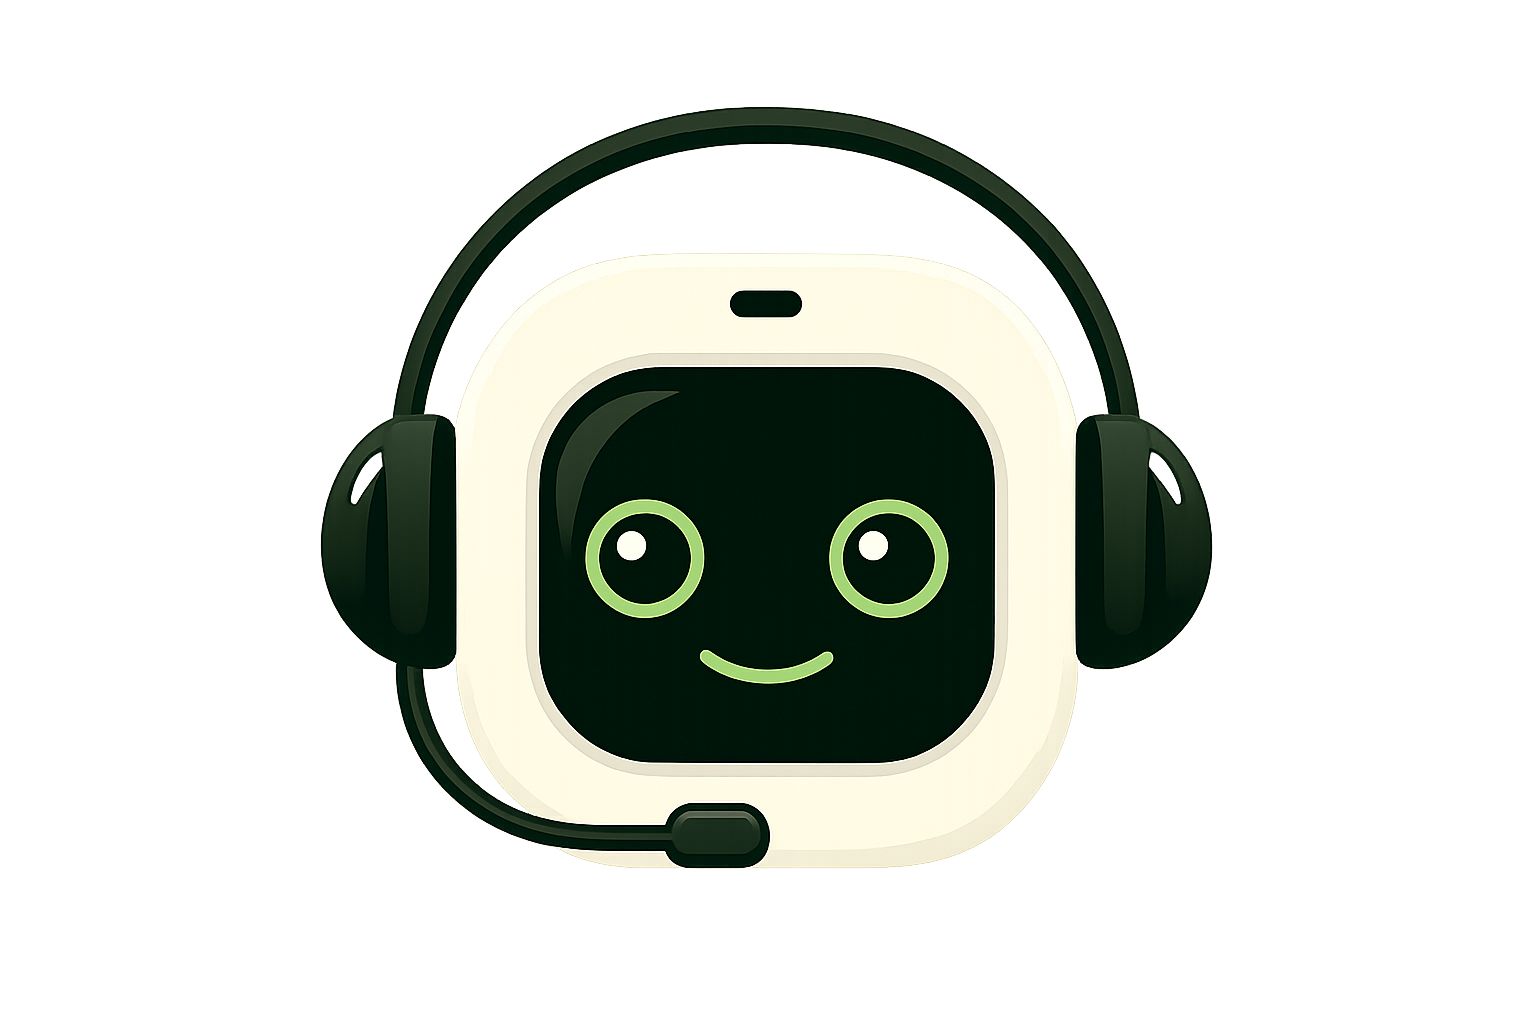
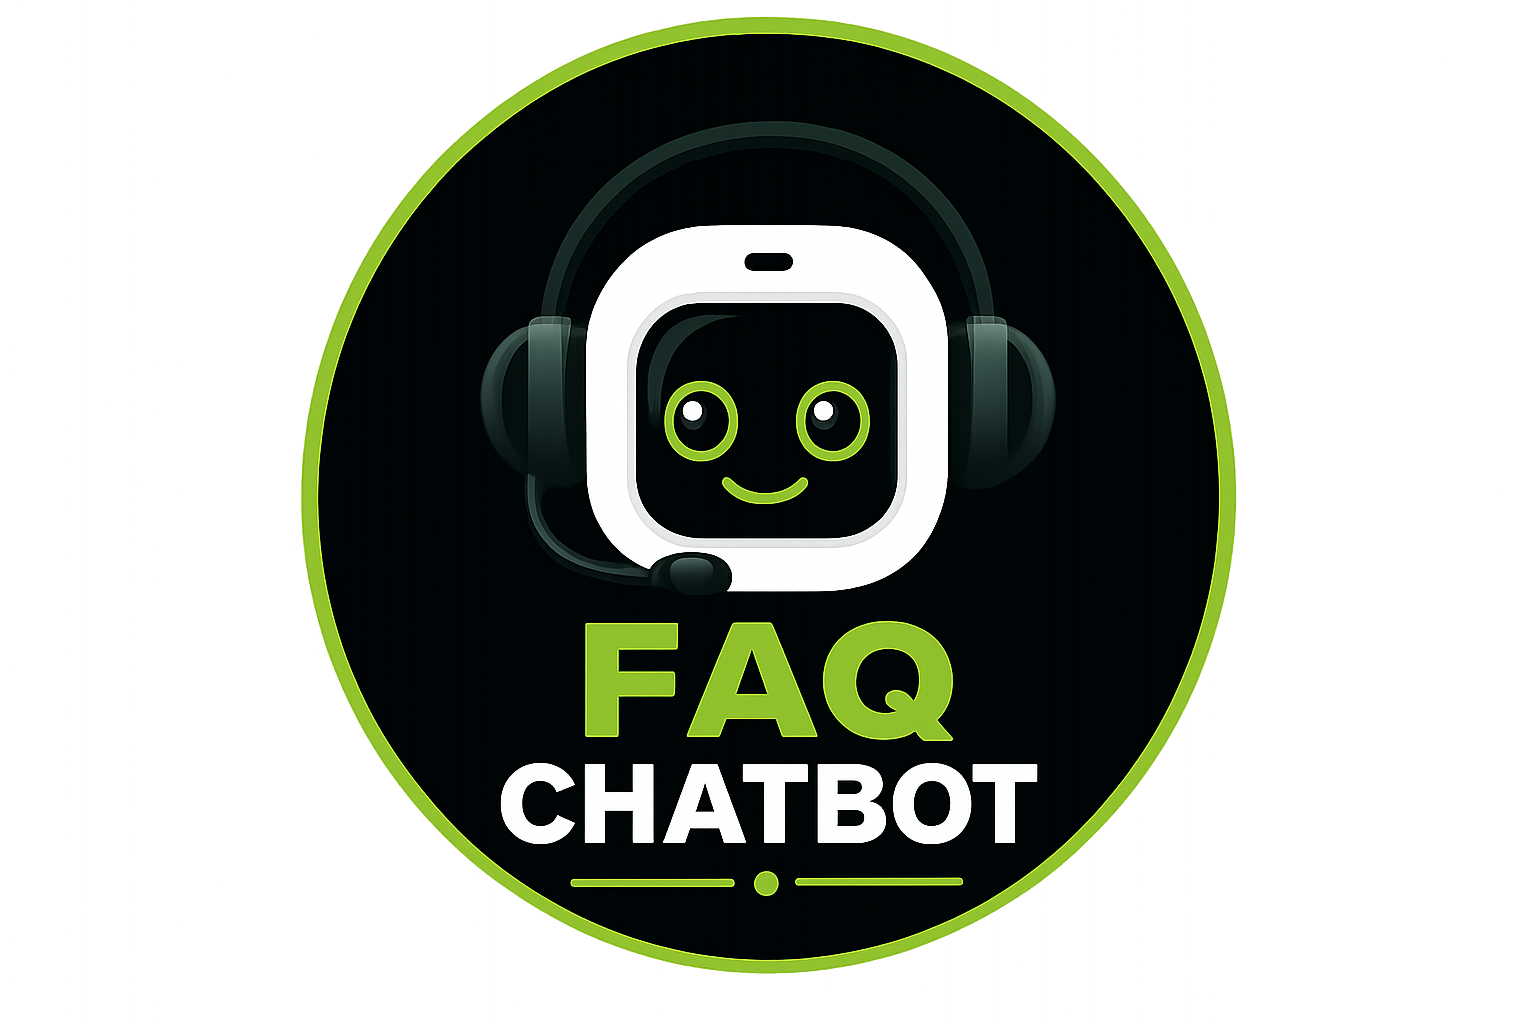
change chat boat image

diff --git a/vite.config.js b/vite.config.js
@@ -3,61 +3,11 @@ import https from "node:https";
 import os from "node:os";
 import { fileURLToPath } from "node:url";
 import { execFile } from "node:child_process";
-import { copyFileSync, mkdirSync, readFileSync } from "node:fs";
 import { readFile, unlink, writeFile } from "node:fs/promises";
 import { defineConfig, loadEnv } from "vite";
 import react from "@vitejs/plugin-react";
 
 const __dirname = path.dirname(fileURLToPath(import.meta.url));
-const CHATBOT_FAVICON_PATH = path.join(__dirname, "public/chatbot/favicon.svg");
-const CHATBOT_LEGACY_IMAGE_NAMES = ["img_1.png", "img_2.png"];
-
-function installChatbotLegacyAssetFallback(server) {
-  server.middlewares.use((req, res, next) => {
-    const requestPath = (req.url ?? "").split("?")[0];
-    const fileName = path.basename(requestPath);
-    if (!CHATBOT_LEGACY_IMAGE_NAMES.includes(fileName)) {
-      next();
-      return;
-    }
-
-    try {
-      const payload = readFileSync(CHATBOT_FAVICON_PATH);
-      res.statusCode = 200;
-      res.setHeader("Content-Type", "image/svg+xml");
-      res.setHeader("Cache-Control", "public, max-age=86400");
-      res.end(payload);
-    } catch {
-      next();
-    }
-  });
-}
-
-function chatbotLegacyAssetFallbackPlugin() {
-  return {
-    name: "chatbot-legacy-asset-fallback",
-    configureServer(server) {
-      installChatbotLegacyAssetFallback(server);
-    },
-    configurePreviewServer(server) {
-      installChatbotLegacyAssetFallback(server);
-    },
-    closeBundle() {
-      const favicon = CHATBOT_FAVICON_PATH;
-      const outputRoots = [
-        path.join(__dirname, "dist/assets"),
-        path.join(__dirname, "dist/chatbot/assets"),
-      ];
-
-      for (const outputRoot of outputRoots) {
-        mkdirSync(outputRoot, { recursive: true });
-        for (const fileName of CHATBOT_LEGACY_IMAGE_NAMES) {
-          copyFileSync(favicon, path.join(outputRoot, fileName));
-        }
-      }
-    },
-  };
-}
 
 const HSAC_PROXY_ALLOWED_HOSTS = new Set([
   "hsac.org.in",
@@ -312,7 +262,6 @@ export default defineConfig(({ mode }) => {
     },
     plugins: [
       react(),
-      chatbotLegacyAssetFallbackPlugin(),
       {
         name: "arcgis-wasm-mime",
         configureServer(server) {

diff --git a/src/components/chatbot/SaarthiChatbotWidget.jsx b/src/components/chatbot/SaarthiChatbotWidget.jsx
@@ -1,6 +1,14 @@
-import { useEffect, useRef, useState } from "react";
+import { useEffect, useRef, useState } from "react";
 import { getRuntimeConfigValue } from "@/config/runtimeConfig";
 import "./SaarthiChatbotWidget.css";
+
+// Bust stale browser cache from the old Vite middleware that served favicon.svg as img_1.png.
+const CHATBOT_ICON_CACHE_VERSION = "2";
+
+function withChatbotAssetVersion(assetPath) {
+  const separator = assetPath.includes("?") ? "&" : "?";
+  return `${assetPath}${separator}v=${CHATBOT_ICON_CACHE_VERSION}`;
+}
 
 const CHATBOT_LOCALE = {
   en: {
@@ -1725,14 +1733,17 @@ export default function SaarthiChatbotWidget({ lang = "en", blurred = false, hid
   const chatbotAssetBase = `${import.meta.env.BASE_URL}chatbot/`;
   const chatbotCssPath = `${chatbotAssetBase}assets/index-CleebXl6.css`;
   const chatbotJsPath = `${chatbotAssetBase}assets/index-h95SWGsY.js`;
-  const chatbotIconFallbackPath = `${chatbotAssetBase}favicon.svg`;
-  const chatbotIconPath = `${chatbotAssetBase}assets/img_1.png`;
-  const chatbotLauncherFlipIconPath = `${chatbotAssetBase}assets/img_2.png`;
+  const chatbotIconPath = withChatbotAssetVersion(`${chatbotAssetBase}assets/img_1.png`);
+  const chatbotLauncherFlipIconPath = withChatbotAssetVersion(`${chatbotAssetBase}assets/img_2.png`);
   const handleChatbotIconError = (event) => {
     const image = event.currentTarget;
     if (!image || image.dataset.fallbackApplied === "true") return;
+    const currentSrc = image.getAttribute("src") || "";
+    if (!currentSrc.includes("img_1.png")) {
+      image.src = chatbotIconPath;
+      return;
+    }
     image.dataset.fallbackApplied = "true";
-    image.src = chatbotIconFallbackPath;
   };
   const activeLocale = CHATBOT_LOCALE[lang] || CHATBOT_LOCALE.en;
   const launcherHints = Array.isArray(activeLocale.launcherHints) && activeLocale.launcherHints.length
@@ -1820,7 +1831,7 @@ export default function SaarthiChatbotWidget({ lang = "en", blurred = false, hid
     if (!iframe) return undefined;
     syncSchedulerRef.current.destroyed = false;
     const iconUrl = new URL(
-      chatbotIconFallbackPath,
+      chatbotIconPath,
       window.location.origin,
     ).toString();
 
@@ -2679,7 +2690,8 @@ export default function SaarthiChatbotWidget({ lang = "en", blurred = false, hid
       }
 
       frameDoc.querySelectorAll(".floating-bot-img img, .bot-logo-img img, .bot-avatar-img img").forEach((img) => {
-        if (img.getAttribute("src") !== iconUrl) {
+        const currentSrc = img.getAttribute("src") || "";
+        if (currentSrc !== iconUrl && !currentSrc.includes(`img_1.png?v=${CHATBOT_ICON_CACHE_VERSION}`)) {
           img.setAttribute("src", iconUrl);
         }
       });
@@ -2960,7 +2972,7 @@ export default function SaarthiChatbotWidget({ lang = "en", blurred = false, hid
       document.removeEventListener("click", onHostClickCapture, true);
       document.removeEventListener("pointerdown", onHostPointerDownCapture, true);
     };
-  }, [activeLocale, chatbotAssetBase, chatbotCssPath, chatbotIconFallbackPath, chatbotJsPath, lang]);
+  }, [activeLocale, chatbotAssetBase, chatbotCssPath, chatbotIconPath, chatbotJsPath, lang]);
 
   return (
     <div
@@ -3017,13 +3029,27 @@ export default function SaarthiChatbotWidget({ lang = "en", blurred = false, hid
     <script type="module" crossorigin src="${chatbotJsPath}"></script>
     <script>
       (function () {
-        var fallback = ${JSON.stringify(chatbotIconFallbackPath)};
+        var primaryIcon = ${JSON.stringify(chatbotIconPath)};
+        function isBotIconImage(image) {
+          if (!image || !image.parentElement) return false;
+          var parentClass = image.parentElement.className || "";
+          return /floating-bot-img|bot-logo-img|bot-avatar-img/.test(parentClass);
+        }
         function patchImage(image) {
           if (!image || image.dataset.fallbackApplied === "true") return;
+          if (isBotIconImage(image)) {
+            var src = image.getAttribute("src") || "";
+            if (src !== primaryIcon) {
+              image.src = primaryIcon;
+            }
+          }
           image.addEventListener("error", function onError() {
-            if (image.dataset.fallbackApplied === "true") return;
+            var failedSrc = image.getAttribute("src") || "";
+            if (!failedSrc.includes("img_1.png")) {
+              image.src = primaryIcon;
+              return;
+            }
             image.dataset.fallbackApplied = "true";
-            image.src = fallback;
           }, { once: true });
         }
         function patchAll(root) {